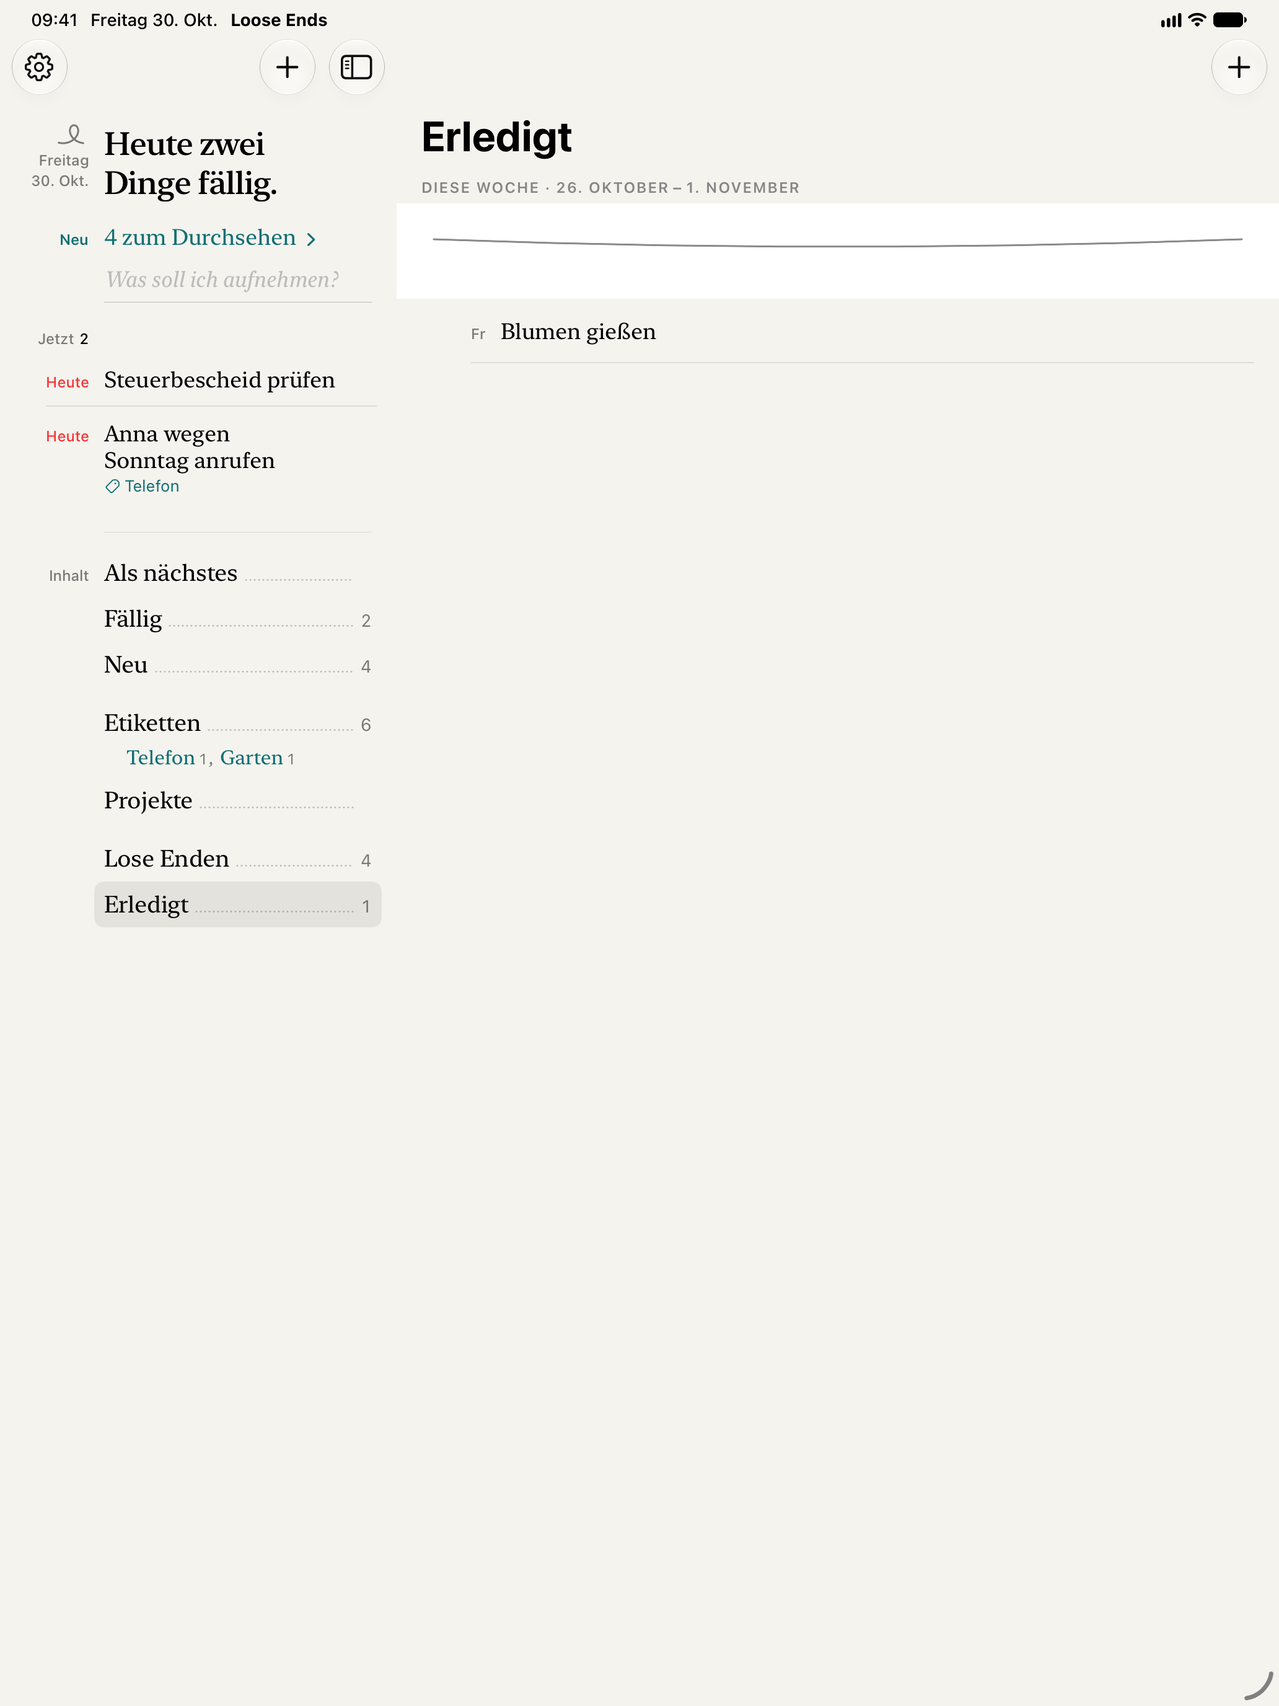
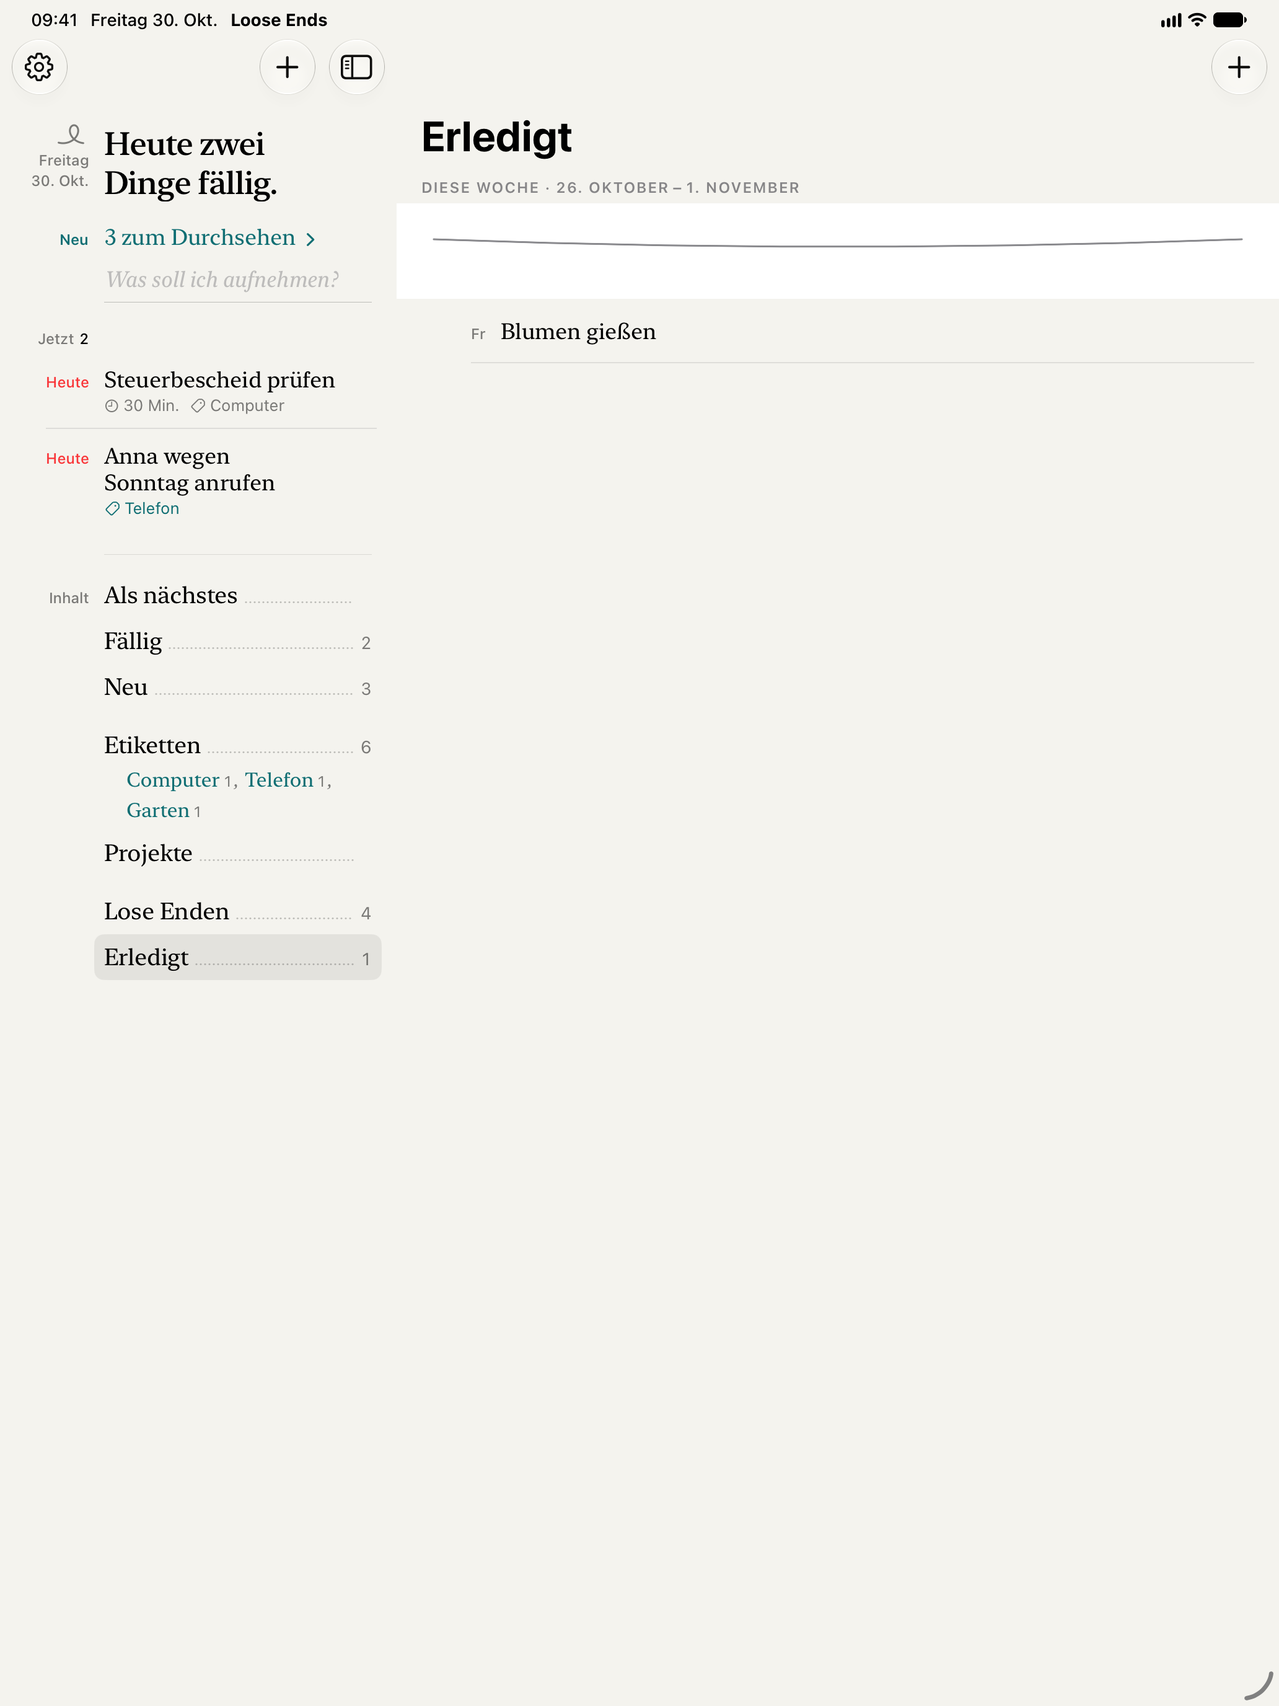
feat: Detailbild ohne Sortierkarte, Store-Ordner erst nach Prüfung ersetzen (Refs #742 Schnitt 1)

Changed region(s): [[0.031, 0.25, 0.2481, 0.5625]]

diff --git a/LooseEndsUITests/StoreScreenshotsTests.swift b/LooseEndsUITests/StoreScreenshotsTests.swift
@@ -85,6 +85,37 @@ final class StoreScreenshotsTests: XCTestCase {
         XCTAssertTrue(field.waitForNonExistence(timeout: 5), "Capture sheet did not close")
     }
 
+    /// The detail as after sorting (F004, Henning 2026-10-30): duration and a tag set by hand, then "Passt".
+    /// No model, no stub; opened from "Fällig", the detail shows no review note.
+    @MainActor
+    private func fillDetail(in app: XCUIApplication) {
+        let duration = element("field_duration", in: app)
+        XCTAssertTrue(duration.waitForExistence(timeout: 5), "Detail offers no duration")
+        duration.tap()
+        let thirty = app.buttons.matching(NSPredicate(format: "label == %@", "30 Min.")).firstMatch
+        XCTAssertTrue(thirty.waitForExistence(timeout: 5), "Duration editor offers no 30 Min.")
+        thirty.tap()   // a single choice closes the editor by itself (#482)
+
+        let tags = element("field_contexts", in: app)
+        XCTAssertTrue(tags.waitForExistence(timeout: 5), "Detail offers no tags")
+        tags.tap()
+        let computer = app.buttons.matching(NSPredicate(format: "label == %@", "Computer")).firstMatch
+        XCTAssertTrue(computer.waitForExistence(timeout: 5), "Tags editor offers no Computer")
+        if !computer.isSelected { computer.tap() }
+        let back = app.navigationBars.buttons
+            .matching(NSPredicate(format: "identifier == 'BackButton' OR label IN {'Zurück', 'Back'}")).firstMatch
+        XCTAssertTrue(back.waitForExistence(timeout: 5), "Tags editor has no back button")
+        back.tap()
+
+        // "Passt" vouches for the title; the task stays in "Jetzt", so the detail stays open.
+        let confirm = element("detailConfirmButton", in: app)
+        if confirm.waitForExistence(timeout: 3) { confirm.tap() }
+        XCTAssertTrue(confirm.waitForNonExistence(timeout: 5), "Passt stays in the bar")
+        XCTAssertFalse(element("reviewNote", in: app).exists, "The detail shows the review note")
+        XCTAssertTrue(tags.waitForExistence(timeout: 5) && tags.label.contains("Computer"), "Tag not set: \(tags.label)")
+        XCTAssertTrue(duration.label.contains("30"), "Duration not set: \(duration.label)")
+    }
+
     /// The iPad's writing line keeps its focus after Return. Its keyboard sometimes stands over the page and
     /// sometimes waits below the screen (then it exists, but its frame starts under the window). Only a keyboard
     /// on the screen is put away, with its own key; a picture with a keyboard fails the test.
@@ -156,11 +187,19 @@ final class StoreScreenshotsTests: XCTestCase {
         XCTAssertGreaterThanOrEqual(taskRows.count, 2, "Neu should show at least two tasks")
         shot("03-neu")
 
+        // From "Fällig", not from "Neu": only the "Neu" list opens a detail for review, with the grey
+        // "Noch nicht sortiert" note (TaskListView `reviewing: kind == .new`, F004). A "Jetzt" row of the
+        // iPad's sidebar would stay selected in the picture, white on a frame.
+        backToStart(in: app)
+        let dueRow = element("viewRow_due", in: app)
+        XCTAssertTrue(dueRow.waitForExistence(timeout: 5), "Start screen shows no Fällig")
+        dueRow.tap()
         let taxRow = rows("taskRow_", containing: "Steuerbescheid", in: app).firstMatch
-        XCTAssertTrue(taxRow.waitForExistence(timeout: 10), "Neu shows no Steuerbescheid")
+        XCTAssertTrue(taxRow.waitForExistence(timeout: 10), "Fällig shows no Steuerbescheid")
         taxRow.tap()
         XCTAssertTrue(element("detailRawTextMarker", in: app).waitForExistence(timeout: 5), "Detail did not open")
         XCTAssertTrue(element("field_dueDate", in: app).waitForExistence(timeout: 5), "Detail shows no due date")
+        fillDetail(in: app)
         shot("04-detail")
         backToStart(in: app)
 

diff --git a/scripts/store_screenshots.py b/scripts/store_screenshots.py
@@ -45,22 +45,29 @@ def finish_device(device, attachments, out_root, info, strip_alpha):
     if missing:
         raise StoreError(f"{device}: Bild fehlt: {', '.join(missing)}")
     folder = Path(out_root) / device
+    # Erst prüfen, dann ersetzen (F001): ein Fehler lässt den bisherigen Geräteordner unberührt.
+    staging = Path(out_root) / f".{device}-neu"
+    if staging.exists():
+        shutil.rmtree(staging)
+    staging.mkdir(parents=True)
+    want = DEVICES[device]["pixel"]
+    try:
+        for name in ORDER:
+            target = staging / f"{name}.png"
+            shutil.copyfile(attachments[f"store-{name}"], target)
+            strip_alpha(target)
+            width, height, alpha = info(target)
+            if (width, height) != want:
+                raise StoreError(f"{device}/{target.name}: {size_text((width, height))} statt {size_text(want)}")
+            if alpha:
+                raise StoreError(f"{device}/{target.name}: Alphakanal nicht entfernt")
+    except BaseException:
+        shutil.rmtree(staging)
+        raise
     if folder.exists():
         shutil.rmtree(folder)
-    folder.mkdir(parents=True)
-    want = DEVICES[device]["pixel"]
-    written = []
-    for name in ORDER:
-        target = folder / f"{name}.png"
-        shutil.copyfile(attachments[f"store-{name}"], target)
-        strip_alpha(target)
-        width, height, alpha = info(target)
-        if (width, height) != want:
-            raise StoreError(f"{device}/{target.name}: {size_text((width, height))} statt {size_text(want)}")
-        if alpha:
-            raise StoreError(f"{device}/{target.name}: Alphakanal nicht entfernt")
-        written.append(target)
-    return written
+    staging.rename(folder)
+    return [folder / f"{name}.png" for name in ORDER]
 
 
 def build_manifest(names_by_device, commit, created):
@@ -102,6 +109,8 @@ def read_export(folder):
         for item in test.get("attachments", []):
             stem = item.get("suggestedHumanReadableName", "").split("_")[0]
             if stem.startswith("store-"):
+                if stem in found:   # F002: zwei Anhänge gleichen Namens, keiner ist eindeutig der richtige
+                    raise StoreError(f"Anhang doppelt: {stem}")
                 found[stem] = folder / item["exportedFileName"]
     return found
 

diff --git a/scripts/test_store_screenshots.py b/scripts/test_store_screenshots.py
@@ -84,6 +84,26 @@ class FinishDeviceTests(NeedsModule):
         self.assertFalse(old.exists())
 
 
+    def test_failed_check_keeps_previous_folder(self):
+        old = self.out / "iphone" / "01-start.png"
+        old.parent.mkdir(parents=True)
+        old.write_bytes(b"alt")
+        with self.assertRaises(ss.StoreError):
+            ss.finish_device("iphone", self.attachments(), self.out, self.info((1179, 2556)), self.keep)
+        self.assertEqual(old.read_bytes(), b"alt")
+        self.assertEqual([p.name for p in self.out.iterdir()], ["iphone"])
+
+
+class ReadExportTests(NeedsModule):
+    def test_duplicate_attachment_aborts(self):
+        items = [{"suggestedHumanReadableName": f"store-01-start_{n}_X.png", "exportedFileName": f"{n}.png"}
+                 for n in (0, 1)]
+        (self.root / "manifest.json").write_text(json.dumps([{"attachments": items}]))
+        with self.assertRaises(ss.StoreError) as ctx:
+            ss.read_export(self.root)
+        self.assertIn("store-01-start", str(ctx.exception))
+
+
 class ManifestTests(NeedsModule):
     def test_manifest_lists_both_sizes(self):
         manifest = ss.build_manifest({"iphone": ORDER, "ipad": ORDER}, commit="abc1234", created="2026-10-30T12:00:00Z")

diff --git a/docs/artifacts/feat-742-store-screenshots/adversary-dialog.md b/docs/artifacts/feat-742-store-screenshots/adversary-dialog.md
@@ -1,6 +1,6 @@
 # Adversary Dialog — feat-742-store-screenshots
 Spec: docs/specs/feat-742-schnitt-1-iphone-ipad.md
-Datum: 2026-10-30 10:15
+Datum: 2026-10-30 10:29
 
 ## Checkliste
 - [x] **AC-1:** `./scripts/sim.sh store-screenshots` erzeugt je Gerät fünf PNG-Dateien `01-start` … `05-erledigt` unter `docs/store/screenshots/de/iphone/` und `…/ipad/`. Belegt durch Lauf und Dateiliste.
@@ -15,106 +15,85 @@ Datum: 2026-10-30 10:15
 ## Dialog
 
 ### Runde 1
-**Adversary:** Tests: `python3 -m unittest scripts/test_store_screenshots.py` -> 8 Tests, OK (adversary-test-output.txt). sips je Datei: iPhone alle 1206x2622, iPad alle 2064x2752, hasAlpha überall no. Manifest zwei Geräte mit korrekten Pixelmaßen und 01..05 in Reihenfolge, README nennt Zuordnung. Alle zehn Bilder geöffnet. iPhone: 01 Startseite "Heute zwei Dinge fällig", Jetzt 2 mit Steuerbescheid und Anna (Telefon); 02 Erfassen-Sheet mit Text "Fahrrad zur Inspektion bringen" und Tastatur (gewollt, iPhone); 03 Neu mit vier Aufgaben; 04 Detail Steuerbescheid mit Fällig "Heute"; 05 Erledigt mit "Blumen gießen". Alle deutsch, hell, 09:41, Akku voll, WLAN/Balken, keine Rahmen/Bildunterzeilen. iPad: 01 bis 05 ohne Tastatur, Statusleiste 09:41, untere Bildhälfte leer (Inhalt nur oben), 02 zeigt getippte Zeile statt Fenster (bekannte Abweichung), ein kleiner grauer Bogen unten rechts auf allen iPad-Bildern (vermutlich Fenstergriff des Simulators), weiße Flächenreste im Detailbereich von 01/02/05. Persönliche Daten: keine; nur Testsätze, Datum "Freitag 30. Okt." ist das Tagesdatum. Belege: store-proof-iphone.txt (Passed, 1/1, head e9d8869, 10:04) und simulator-run.txt = iPad (Passed, 10:06); Testdatei-Hash im Beleg gleich der Arbeitskopie, Test (09:58) und sim.sh (09:58) sind älter als die Läufe, Bilder (10:06) jünger: Bilder stammen vom aktuellen Stand. Keine Gerätezugriffe: Suche nach devicectl/device in store_screenshots.py und StoreScreenshotsTests.swift ohne Treffer; der sim.sh-Befehl nutzt nur $SIMCTL auf Simulatoren. simctl status_bar list beider Simulatoren: keine Überschreibung mehr. test-proof löscht vorher den alten Beleg und das xcresult (sim.sh:649), also keine veralteten Exporte.
-**Implementierer:** Abweichungen sind bekannt und vom PO freigegeben (discharging statt charged, iPad-02 ohne Fenster, Perle fehlt, Umfang über 250 LoC).
+**Adversary:** Ich behaupte, die Lieferung ist kaputt. Gepruefte Punkte mit Belegen:
+- AC-1/AC-2: `sips` je Datei: iPhone 01-05 je 1206x2622 hasAlpha no, iPad 01-05 je 2064x2752 hasAlpha no. Je fuenf Dateien pro Geraet, kein Zwischenordner `.iphone-neu`/`.ipad-neu` (ls -a zeigt nur ipad, iphone, manifest.json, README.md). Code reference: scripts/store_screenshots.py:48 (Staging, Pruefung Zeile 59-63, Austausch Zeile 67-69). `python3 -m unittest scripts/test_store_screenshots.py` -> "Ran 10 tests ... OK" (adversary-test-output.txt). Code reference: scripts/test_store_screenshots.py:1
+- AC-3/AC-4/AC-5 (alle zehn PNG geoeffnet): iPhone 01 deutsch, hell, 09:41, voller Akku, "Heute zwei Dinge faellig", Jetzt 2 Zeilen, erfundene Saetze, keine Tastatur; 02 Erfassen-Sheet mit Tastatur (gewollt) und getipptem Satz; 03 Neu mit vier Aufgaben; 04 Detail Steuerbescheid mit Faellig Heute, Dauer 30 Min., Etiketten Computer, KEINE Karte "Noch nicht sortiert"; 05 Erledigt mit "Blumen giessen". iPad 01 und 02 ohne Tastatur (02 zeigt die getippte Zeile statt Fenster, freigegebene Abweichung), 03 Neu mit vier Aufgaben, 04 Detail mit Faellig/30 Min./Computer, keine Karte, 05 Erledigt mit einer Aufgabe. Keine persoenlichen Daten, kein Rahmen, keine Bildunterzeile. Kosmetisch: iPad 01/05 zeigen einen weissen Panel-Streifen (App-Verhalten, kein Spec-Verstoss).
+- AC-6: manifest.json nennt beide Groessen, Pixelmass und Dateien 01..05; README erklaert die Zuordnung. Code reference: scripts/store_screenshots.py:73
+- AC-7: Statusleiste per trap auch bei Fehler/Abbruch zurueckgesetzt, Altbilder werden durch Austausch des ganzen Ordners entfernt. Code reference: scripts/sim.sh:1141 (trap Zeile 1143-1144)
+- AC-8: Belege store-proof-iphone.txt (10:26:34) und store-proof-ipad.txt/simulator-run.txt (10:28:43): Passed, 1 bestanden, 0 uebersprungen; Hash der Testdatei im Beleg 9e3405... = shasum der Arbeitskopie; mtime StoreScreenshotsTests.swift 10:24:42, store_screenshots.py 10:17:18, sim.sh 09:58:47, alle aelter als beide Belege; Bilder 10:28 aus demselben Lauf. Code reference: LooseEndsUITests/StoreScreenshotsTests.swift:91 (fillDetail prueft Computer in Zeile 115, 30 in 116, keine reviewNote in 114).
+- Kein Geraetezugriff: grep devicectl in sim.sh trifft nur alte Geraetebefehle (Zeilen 799-1088), nicht den neuen Block 1137-1163. CLAUDE.md nennt den Befehl. Code reference: CLAUDE.md:64
+
+Finding:
+  ID: F003
+  Severity: LOW
+  Category: edge_case
+  Code reference: scripts/store_screenshots.py:124
+  Description: main() ersetzt den iPhone-Ordner, bevor der iPad-Export geprueft ist. Scheitert iPad danach, liegen neue iPhone-Bilder neben altem iPad-Ordner und altem manifest.json (Commit-Feld veraltet).
+  Spec requirement: AC-7 — zweiter Lauf laesst keine Altbilder zurueck
+  Conflict: Teilzustand nach Abbruch; Nutzer sieht Fehlermeldung, Exit 1, kein stiller Erfolg.
+  Remediation: Beide Staging-Ordner pruefen, dann beide tauschen. Nicht blockierend.
+
+Finding:
+  ID: F004
+  Severity: LOW
+  Category: edge_case
+  Code reference: LooseEndsUITests/StoreScreenshotsTests.swift:113
+  Description: waitForNonExistence(confirm) besteht auch, wenn "Passt" nie erschien; die Pruefung auf Dauer/Etikett (Zeile 115-116) und fehlende reviewNote (114) faengt das Ergebnis aber ab.
+  Spec requirement: AC-5 — Detail mit Faelligkeit
+  Conflict: schwache Zwischenpruefung, Ergebnis dennoch abgesichert.
+  Remediation: keine noetig.
+
+**Implementierer:** F003/F004 sind LOW, F001/F002 aus dem ersten Durchgang sind behoben (Staging Zeile 48-69, Doppelanhang Zeile 112-113).
 
 ### Runde 2
-**Adversary:** Randfälle. (a) Fehlender Anhang: `finish_device` bricht mit "Bild fehlt" ab (store_screenshots.py:44-46), getestet. (b) Falsche Größe/Alpha: Abbruch mit beiden Größen (:58-61), getestet. (c) Doppelte Anhänge: `read_export` überschreibt still, letzter gewinnt (:101-105); LOW. (d) `finish_device` löscht den Geräteordner vor der Prüfung (:48-50): ein Fehlschlag hinterlässt Teilbilder und vernichtet die letzten guten; LOW, wiederherstellbar über die Versionsverwaltung. (e) Manifest-"commit" ist HEAD (e9d8869), obwohl der Arbeitsstand nicht eingecheckt ist (:117); LOW, belegt durch Testdatei-Prüfsumme. (f) Tastatur: `putKeyboardAway` lehnt ein Bild mit sichtbarer Tastatur per XCTAssertFalse ab (StoreScreenshotsTests.swift:95-102), Prüfung über Rahmen gegen App-Rahmen; plausibel, iPad-Bilder 01/02 belegen es. (g) Fehlerpfad: `trap 'store_clear_bars; release_testlock' EXIT` und INT/TERM -> exit 130; Fehler in test-proof und xcresulttool schlagen durch, der Trap läuft; Zustand nach Erfolgslauf: keine Überschreibung. Ein absichtlich abgebrochener Lauf wurde laut Auftrag nicht gefahren; Nachweis nur über Code und Zustand. (h) Inhalt: 04-detail zeigt auf beiden Geräten die Karte "Noch nicht sortiert ... sobald Apple Intelligence bereitsteht"; für Store-Bilder fragwürdig, nicht Teil der AC; MEDIUM als Hinweis an den PO. iPad: untere Bildhälfte leer, Bogen unten rechts; kosmetisch.
-**Implementierer:** (c) bis (e) sind Randfälle des Werkzeugs, kein Produktcode; Bilder sind versioniert wiederherstellbar.
+**Adversary:** Nachgebohrt: Zwischenordner-Fehlerpfad raeumt per `except BaseException` (store_screenshots.py:64) auf, alter Ordner bleibt unberuehrt; alter `.xxx-neu` wird beim Start entfernt (Zeile 50). Doppelanhang bricht ab (test dazu in den 10 Tests gruen). Frueher bekannte Abweichungen (discharging, iPad-02 getippte Zeile, keine Perle, Umfang) vom PO freigegeben. Keine Regression: Aufrufer von finish_device nur main (Zeile 124). Detail oeffnet ueber "Faellig", dadurch nie die Karte.
+**Implementierer:** Keine weiteren Einwaende. Sichtbare Bilder und Belege decken alle ACs.
 
 ## Herkunft der Vorbedingungen
 
 kein Sprachprofil konfiguriert (`precondition_origins.default_lang`)
 
-## Findings und Confirmations
+## Verdict
+VERDICT: VERIFIED
+Tests: 10 Python passed, 0 failed; UI-Test StoreScreenshotsTests je Geraet 1 bestanden, 0 uebersprungen (Belege). Edge cases: nur LOW F003/F004. Checklist 8/8.
 
 Confirmation:
   AC: AC-1
-  Code reference: scripts/store_screenshots.py:39
-  Evidence: finish_device schreibt fünf Dateien, prüft Größe und Alpha; build_manifest (Zeile 66) liefert beide Größen; sips-Werte aller zehn Bilder stimmen.
+  Code reference: scripts/sim.sh:1141
+  Evidence: cmd_store_screenshots fuehrt je Geraet test-proof aus, trap setzt Statusleiste zurueck.
   Status: CONFIRMED
 
 Confirmation:
-  AC: AC-6
+  AC: AC-2
   Code reference: scripts/test_store_screenshots.py:1
-  Evidence: 8 Tests laufen grün (Ran 8 tests, OK).
-  Status: CONFIRMED
-
-Confirmation:
-  AC: AC-7
-  Code reference: scripts/sim.sh:1137
-  Evidence: cmd_store_screenshots mit trap (EXIT/INT/TERM), status_bar override und clear je Gerät, test-proof je Gerät, Beleg-Kopien; kein devicectl; Statusleiste danach ohne Überschreibung.
+  Evidence: 10 Tests OK inkl. Groesse/Alpha/Doppelanhang/Altbilder.
   Status: CONFIRMED
 
 Confirmation:
   AC: AC-5
-  Code reference: LooseEndsUITests/StoreScreenshotsTests.swift:137
-  Evidence: --ui-testing, Deutsch, Zwischenprüfungen (Jetzt >= 2, Neu >= 2, field_dueDate, Erledigt nicht leer), Tastaturprüfung Zeile 95; Bilder bestätigen es.
+  Code reference: LooseEndsUITests/StoreScreenshotsTests.swift:91
+  Evidence: fillDetail prueft Computer, 30, keine reviewNote.
   Status: CONFIRMED
 
 Confirmation:
-  AC: AC-8
+  AC: AC-6
   Code reference: CLAUDE.md:64
-  Evidence: Befehlszeile store-screenshots im Abschnitt Build vorhanden; Belege store-proof-iphone.txt und simulator-run.txt Passed.
+  Evidence: Befehl dokumentiert; manifest.json und README gelesen.
   Status: CONFIRMED
-
-Finding:
-  ID: F001
-  Severity: LOW
-  Category: edge_case
-  Code reference: scripts/store_screenshots.py:48
-  Description: Geräteordner wird vor Größen- und Alphaprüfung gelöscht, bei Abbruch bleiben ungeprüfte Teilbilder.
-  Spec requirement: AC-7 — keine Altbilder; Abbruch bei falscher Größe
-  Conflict: Keine Verletzung der AC, aber Teilzustand nach Abbruch.
-  Remediation: In Temp-Ordner schreiben, nach erfolgreicher Prüfung austauschen.
-
-Finding:
-  ID: F002
-  Severity: LOW
-  Category: edge_case
-  Code reference: scripts/store_screenshots.py:105
-  Description: Doppelte Anhänge gleichen Namens überschreiben sich still.
-  Spec requirement: AC-1 — genau fünf Bilder je Gerät
-  Conflict: Keine Warnung bei Wiederholungsläufen.
-  Remediation: Bei Duplikat abbrechen oder bewusst den neuesten wählen.
-
-Finding:
-  ID: F003
-  Severity: LOW
-  Category: spec_violation
-  Code reference: scripts/sim.sh:1157
-  Description: batteryState discharging statt charged (vom PO freigegeben), iPad-02 ohne Fenster (freigegeben); abgebrochener Lauf nicht gefahren.
-  Spec requirement: AC-3 / AC-7
-  Conflict: Bekannte Abweichungen; Akku im Bild voll.
-  Remediation: Im Abschlussbericht nennen.
-
-Finding:
-  ID: F004
-  Severity: MEDIUM
-  Category: anti_pattern
-  Code reference: LooseEndsUITests/StoreScreenshotsTests.swift:162
-  Description: 04-detail zeigt die Karte "Noch nicht sortiert ... Apple Intelligence bereitsteht" (Simulator ohne Modell); iPad-Bilder mit leerer unterer Hälfte.
-  Spec requirement: keine AC betroffen
-  Conflict: Inhaltliche Qualität, nicht Spec.
-  Remediation: PO entscheiden lassen.
-
-## Verdict
-
-VERDICT: VERIFIED
 
 ## Geprüfte Dateien
 
 - sha256:c235ee148ce5bfca493f0723781f306644610ca7992719c15f0e5196159acf94  CLAUDE.md
-- sha256:b72440389bd69caee76e509aba872dd7aa5b1112cce6ad552c0bede2f73403f5  LooseEndsUITests/StoreScreenshotsTests.swift
+- sha256:9e340577aca267acc1b58e67d295d6ef2e0e39ae9a423d8c6b78a712d6cd6fbf  LooseEndsUITests/StoreScreenshotsTests.swift
 - sha256:be8c36caa35a4feed8d8572e6ee464fd87e68225f6f3b75b34aba1f423de0690  scripts/sim.sh
-- sha256:3765a050afb3df18759840f4c6e5dece34e793567134a832c1edc06b134b5355  scripts/store_screenshots.py
-- sha256:3cc501551f3df9db078fd832b766968c49fd6ca2162f9395b3422a7c3be7acab  scripts/test_store_screenshots.py
+- sha256:289611bedcdb08ecaf527b2a54f76f8a0469fa3a518cf4ced0f9e0ab0a98e6f5  scripts/store_screenshots.py
+- sha256:c18c4a36a776a63089561296dd64cbb2ab05979960c204c655d488322485f154  scripts/test_store_screenshots.py
 
 ## Prüfbasis
 
 - base: 754b4f0cc9ce98e20deecfe2e3f8ff79108f5b73
 - blob:209ef1a70b8f7443ca9298aab1a2fd3f9ec53303  CLAUDE.md
-- blob:622fb777ac0252d4c13b4f0049518ca93a3c1c52  LooseEndsUITests/StoreScreenshotsTests.swift
+- blob:82cf762fdeab98d221b5ac6aaee0b0966ce24173  LooseEndsUITests/StoreScreenshotsTests.swift
 - blob:d773e2a8b2dd010b9e9d1249ffb3702a6b258f6b  scripts/sim.sh
-- blob:6f4b020c8dfa34f04372d462e5d8839af67111ea  scripts/store_screenshots.py
-- blob:9acdd410c2089eada9f9f20a6c87218cf3db61cd  scripts/test_store_screenshots.py
+- blob:29ea28dd53f2c0a353408d9d4e957540c34060f9  scripts/store_screenshots.py
+- blob:eb960acabfaf8e4c0d380fd2e8e60a40314686d1  scripts/test_store_screenshots.py
